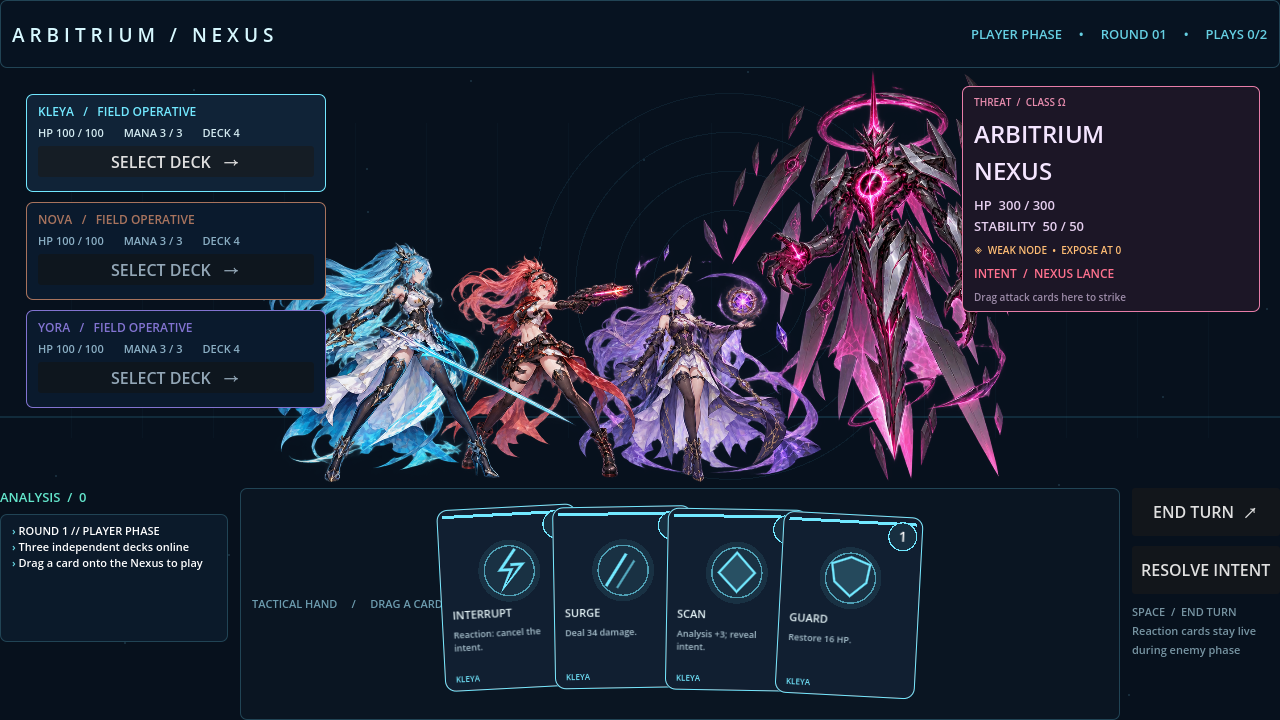
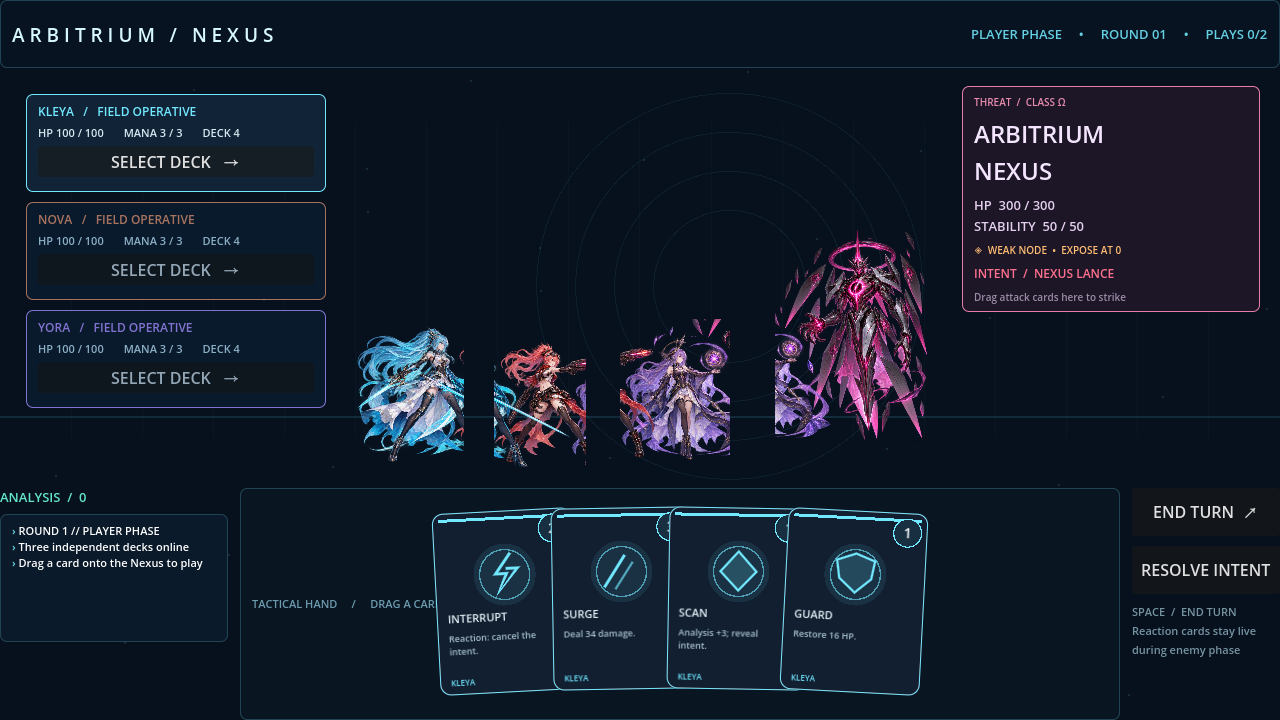
Animate card play and character combat actions

Changed region(s): [[0.2188, 0.1222, 0.7812, 0.6722], [0.3438, 0.7028, 0.7188, 0.9778]]

diff --git a/README.md b/README.md
@@ -12,7 +12,8 @@ Open this folder in Godot 4.x and run the main scene. The project targets a 1280
 - Drag an ordinary card from the selected hero's hand onto the Nexus during the player phase.
 - Click `END TURN` to expose the boss intent.
 - During the enemy phase, drag `Interrupt` onto the Nexus if it is in the selected hero's hand and that hero has retained enough Mana; otherwise click `RESOLVE INTENT`.
-- Hover cards to lift them; invalid drops spring back. Successful plays animate into the arena.
+- Card drag thresholds, tracking, and release state are provided by the open-source Simple Cards `Card` component; card faces and combat rules remain project-specific.
+- Hover cards to lift them; invalid drops spring back. On a valid drop, the card flies into the arena while the selected hero dashes or casts. The impact then flashes/shakes the Nexus, shows combat text, and only then resolves the combat state.
 
 ## Verification
 
@@ -28,11 +29,11 @@ Verify the drag-to-play UI path with:
 godot --headless --path . --script res://tests/test_combat_ui.gd
 ```
 
-Latest in-engine UI capture: [outputs/combat_ui_mvp.png](outputs/combat_ui_mvp.png).
+Latest in-engine UI capture: [outputs/combat_ui_mvp.png](outputs/combat_ui_mvp.png). Animation captures: [card in flight](outputs/card_attack_midflight.png) and [impact/result](outputs/card_attack_impact.png).
 
 The rules source of truth is [docs/COMBAT_RULES_V1.md](docs/COMBAT_RULES_V1.md).
 
 ## MVP scope
 
-M0–M3 are implemented: executable project scaffold, pure combat state, independent decks, opening/refill draw, Mana retention, ordinary play cap, Reaction interrupt, Boss HP/Stability/Weak Node, Analysis, Enemy Intent, and a playable 16:9 UI with original generated party/Boss artwork, custom card faces, hover lift, drag/drop, spring-back, and play tween. M5 deck builder/export remain future work; this is still a prototype, not a production-ready commercial release.
+M0–M4 are implemented: executable project scaffold, pure combat state, independent decks, opening/refill draw, Mana retention, ordinary play cap, Reaction interrupt, Boss HP/Stability/Weak Node, Analysis, Enemy Intent, and a playable 16:9 UI with original generated party/Boss artwork, animated character sprites, Simple Cards drag input, custom card faces, hover lift, spring-back, card flight, attack/cast motion, and impact feedback. M5 deck builder/export remains future work; this is still a prototype, not a production-ready commercial release.
 
